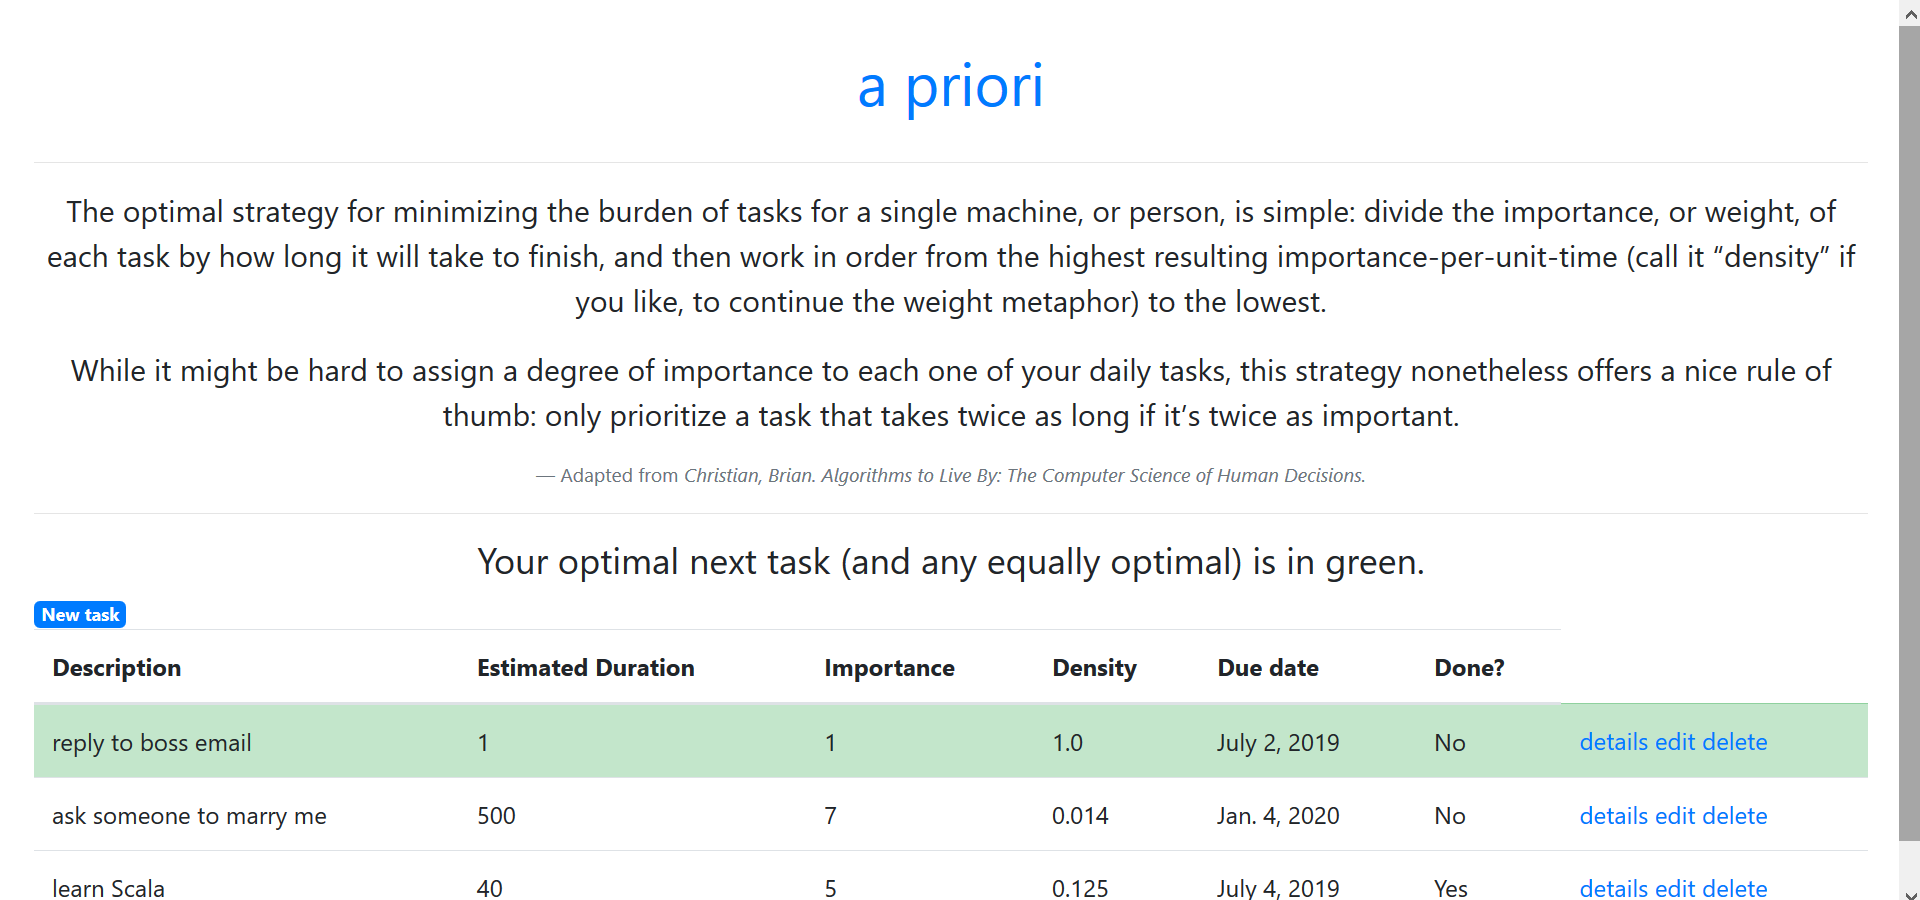
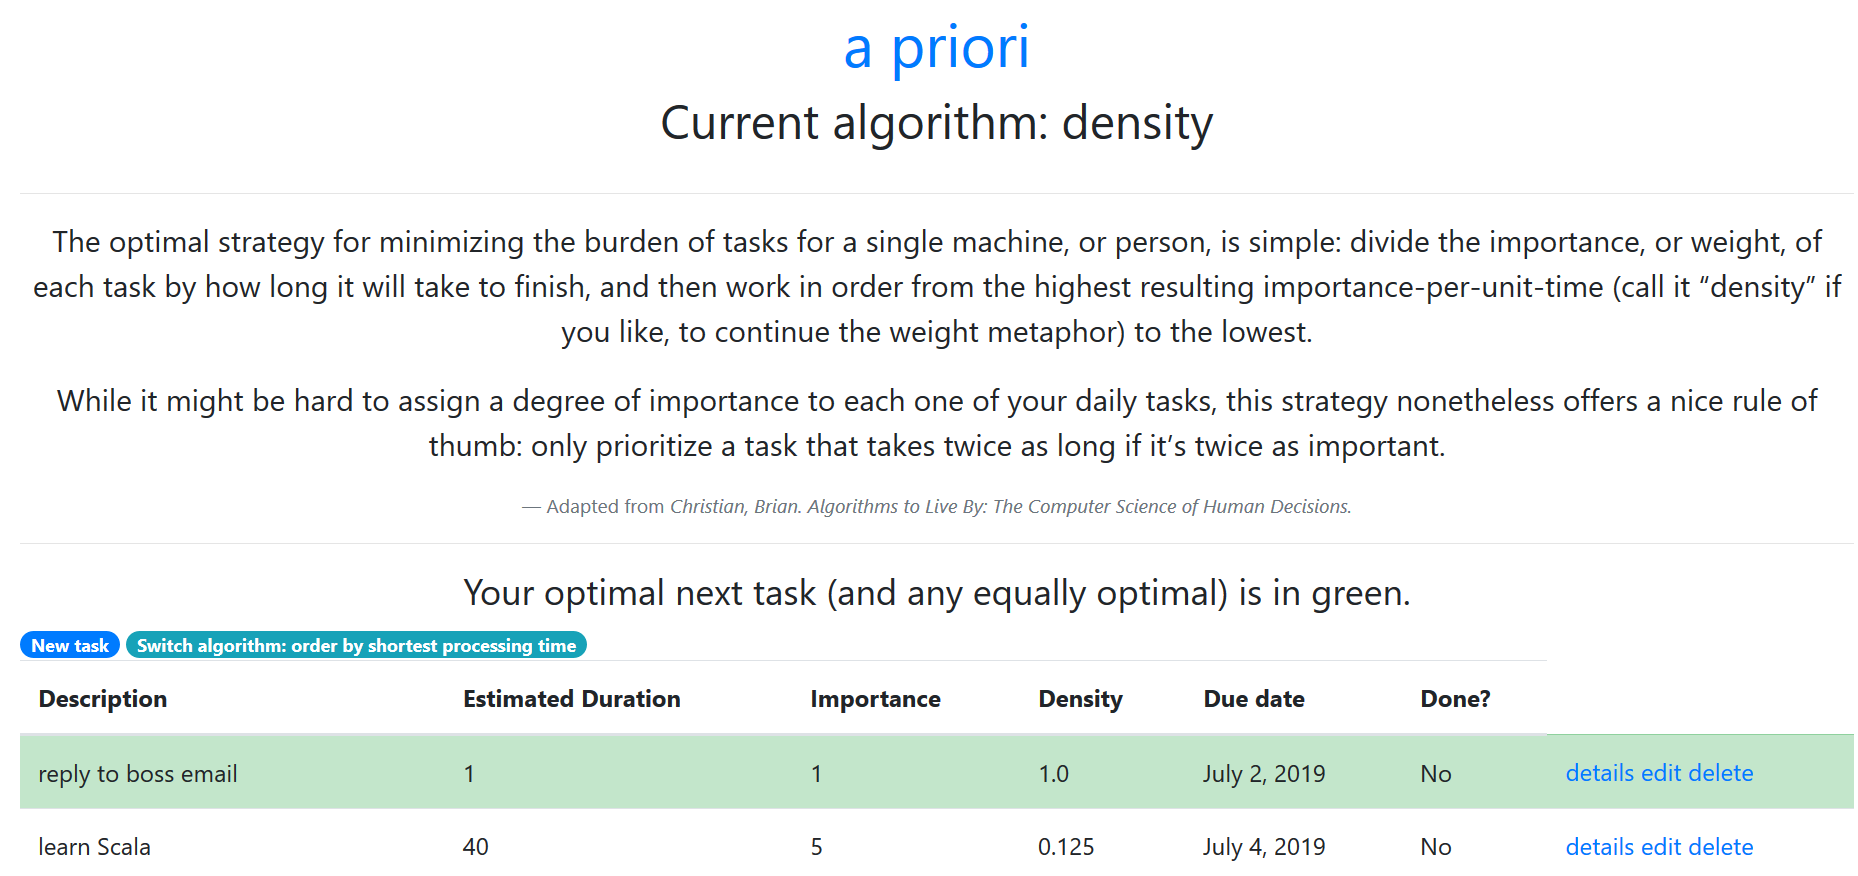
Update screenshot; Add new scheduling algorithm option

diff --git a/project/app/templates/app/task_list.html b/project/app/templates/app/task_list.html
@@ -3,17 +3,27 @@
 {% block page_content %}
 <hr>
 <blockquote class="blockquote text-center">
+    {% if algorithm != 'density' %}
+    <p>Imagine starting on Monday morning with a four-day project and a one-day project on your agenda. If you deliver the bigger project on Thursday afternoon (4 days elapsed) and then the small one on Friday afternoon (5 days elapsed), the clients will have waited a total of 4 + 5 = 9 days. If you reverse the order, however, you can finish the small project on Monday and the big one on Friday, with the clients waiting a total of only 1 + 5 = 6 days. It’s a full workweek for you either way, but now you’ve saved your clients three days of their combined time. Scheduling theorists call this metric the “sum of completion times.”</p>
+    <p>Minimizing the sum of completion times leads to a very simple optimal algorithm called Shortest Processing Time: always do the quickest task you can.</p>
+    {% else %}
     <p>The optimal strategy for minimizing the burden of tasks for a single machine, or person, is simple: divide
     the importance, or weight, of each task by how long it will take to finish, and then work in order from the highest resulting
     importance-per-unit-time (call it “density” if you like, to continue the weight metaphor) to the lowest.</p>
     <p>While it might be hard to assign a degree of importance to each one of your daily tasks, this strategy
     nonetheless offers a nice rule of thumb: only prioritize a task that takes twice as long if it’s twice as important.</p>
+    {% endif %}
 </blockquote>
 <footer class="blockquote-footer text-center">Adapted from <cite>Christian, Brian. Algorithms to Live By: The Computer Science of Human Decisions.</cite></footer>
 <hr>
 <h4 class = "text-center">Your optimal next task (and any equally optimal) is in green.</h3>
 
-<a class="badge badge-primary" href="{% url 'task-create' %}">New task</a>
+<a class="badge badge-pill badge-primary" href="{% url 'task-create' %}">New task</a>
+
+<a  class="badge badge-pill badge-info"
+    href="{% url 'home' %}{% if algorithm != 'density' %}?density=1{% endif %}">
+    Switch algorithm: order by {% if algorithm != 'density' %}density{% else %}shortest processing time{% endif %}
+</a>
 
 <table class="table">
     <thead>
@@ -28,7 +38,17 @@
     </thead>
     <tbody>
         {% for task in optimal_tasks %}
-                <tr {% if task.density == first_task.density and task.done != True %}class = "table-success"{% endif %}                >
+                <tr
+                    {% if algorithm == 'density' %}
+                        {% if task.density == first_task_benchmark and task.done == False %}
+                            class = "table-success"
+                        {% endif %}
+                    {% elif algorithm == 'shortest_processing_time' %}
+                        {% if task.estimated_duration == first_task_benchmark and task.done == False %}
+                            class = "table-success"
+                        {% endif %}    
+                    {% endif %}                
+                >
                     <td>{{task.name}}</td>
                     <td>{{task.estimated_duration}}</td>
                     <td>{{task.importance}}</td>

diff --git a/project/app/templates/app/header.html b/project/app/templates/app/header.html
@@ -1,1 +1,5 @@
-<div class = "text-center"><h1><a href="{% url 'home' %}">a priori</a></h1></div>
+<div class = "text-center"><h1><a href="{% url 'home' %}?density={% if algorithm == 'density' %}1{% endif %}">a priori</a></h1>
+{% if algorithm == 'density' %}<h2>Current algorithm: density</h2>
+{% elif algorithm == 'shortest_processing_time' %}<h2>Current algorithm: Shortest Processing Time</h2>
+{% endif %}
+</div>

diff --git a/project/app/views.py b/project/app/views.py
@@ -20,16 +20,27 @@ class TaskList(ListView):
 
     def get_context_data(self, **kwargs):
         context = super().get_context_data(**kwargs)
-        optimal_tasks = (
-            Task.objects
-            .annotate(density=(
-                Cast('importance', FloatField())/Cast('estimated_duration', FloatField())
-            ))
-            .order_by('done', '-density')
-        )
-        if len(optimal_tasks) != 0:
-            context['first_task'] = optimal_tasks[0]
-        context['optimal_tasks'] = optimal_tasks
+        if self.request.GET.get('density') == '1':
+            context['algorithm'] = 'density'
+            optimal_tasks = (
+                Task.objects
+                .annotate(density=(
+                    Cast('importance', FloatField())/Cast('estimated_duration', FloatField())
+                ))
+                .order_by('done', '-density')
+            )
+            if len(optimal_tasks) != 0:
+                context['first_task_benchmark'] = optimal_tasks[0].density
+            context['optimal_tasks'] = optimal_tasks
+        else:
+            context['algorithm'] = 'shortest_processing_time'
+            optimal_tasks = (
+                Task.objects
+                .order_by('done', 'estimated_duration')
+            )
+            if len(optimal_tasks) != 0:
+                context['first_task_benchmark'] = optimal_tasks[0].estimated_duration
+            context['optimal_tasks'] = optimal_tasks
         return context
 
 class TaskDetail(DetailView):
